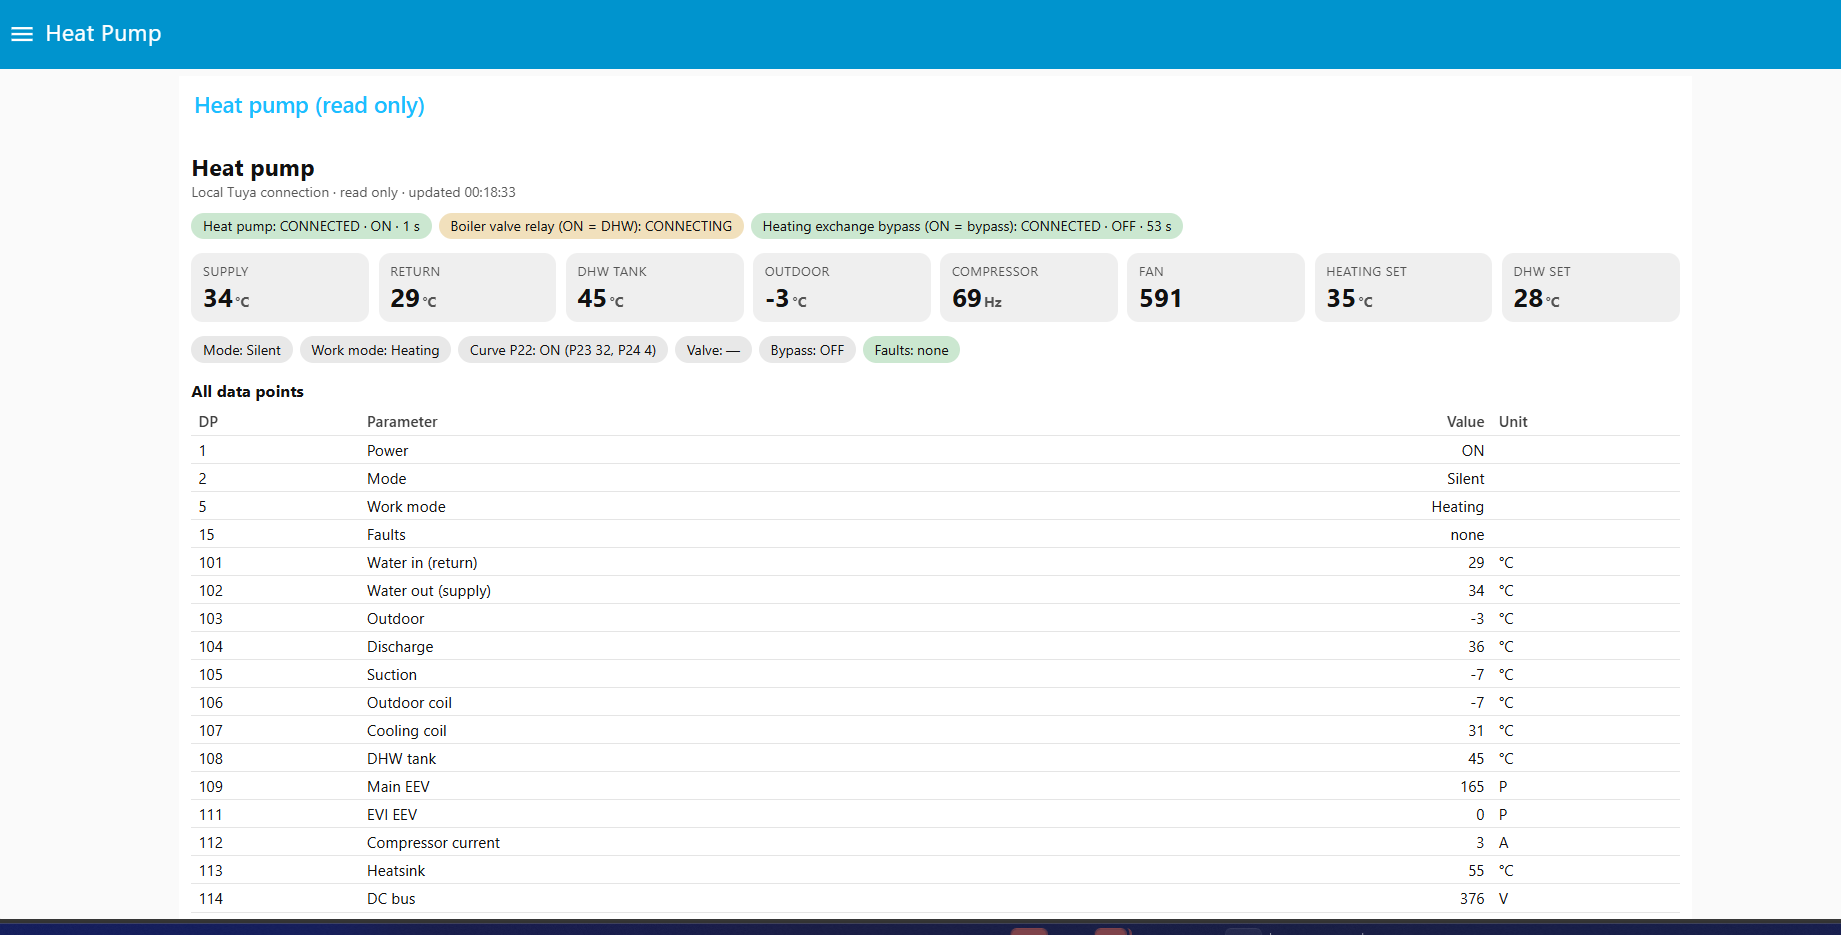
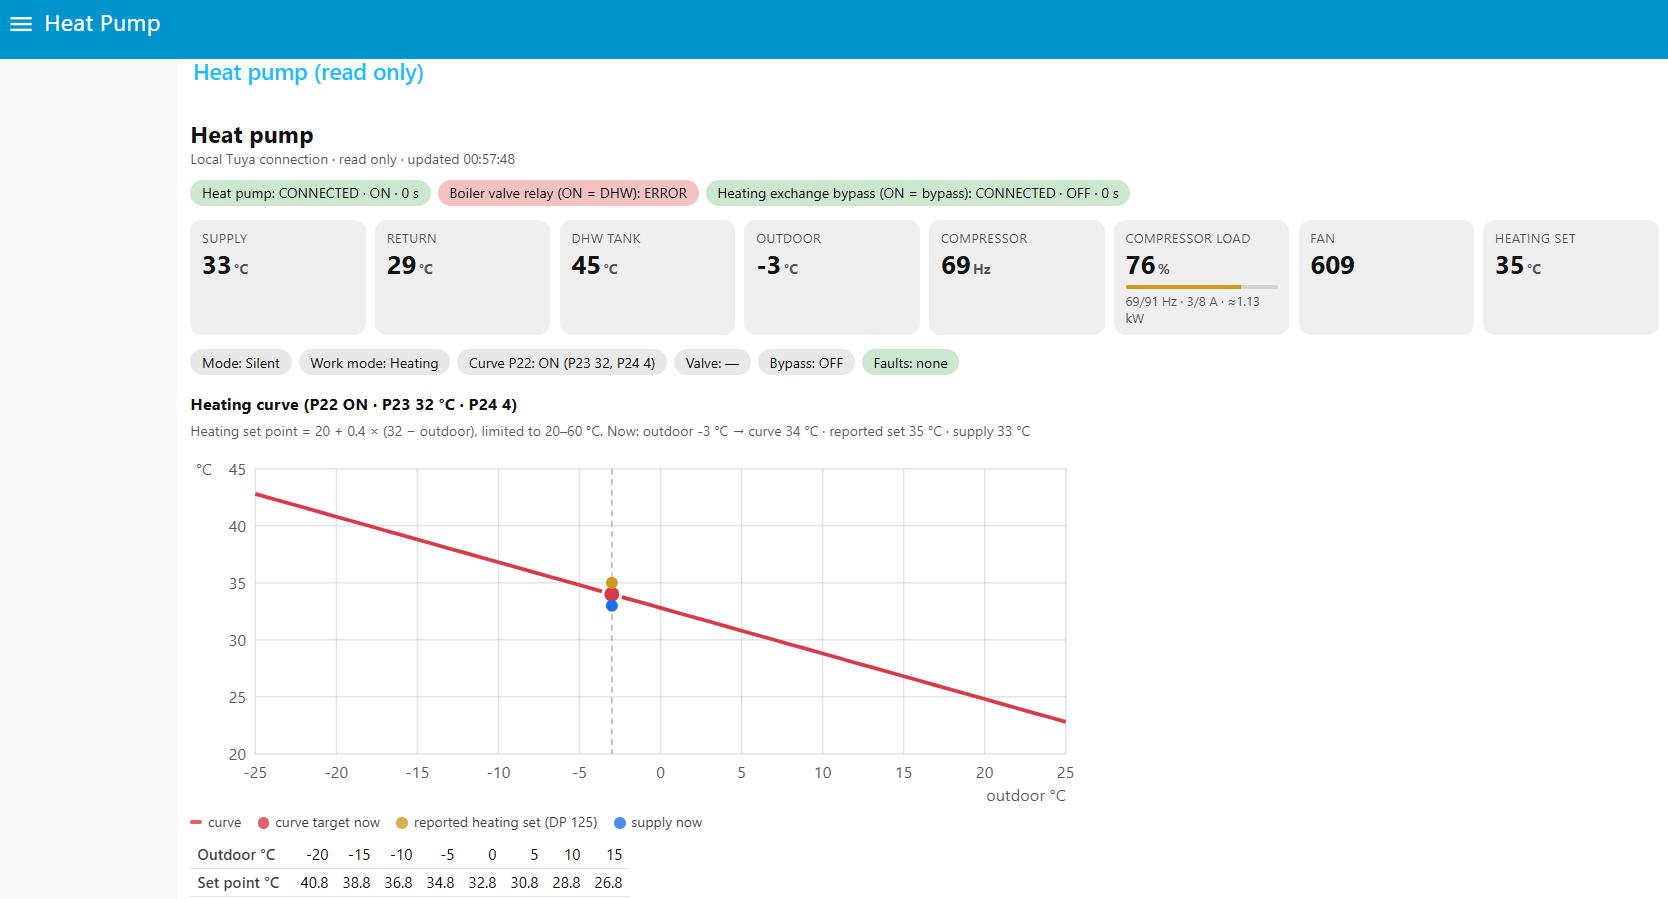
README: Heat Pump section with new screenshots, curve table, example reading
- new page screenshot (compressor load card, heating curve), new data-points screenshot
- page description top to bottom: connection chips, key values, compressor load, status chips, heating curve (formula, colours, set-point table), all data points
- example reading table (8 Nov 2026, -3 C outdoor)

diff --git a/README.md b/README.md
@@ -55,16 +55,43 @@ A Node-RED controller for a Victron ESS on a Cerbo GX (Venus OS) that keeps hour
 
 A dashboard tab for the Tuya-based air-to-water heat pump and its two Tuya relays: the boiler (DHW) valve and the heating-exchange bypass. Node-RED talks to the devices **locally over the LAN** with the Tuya local protocol ([`node-red-contrib-tuya-smart-device`](https://flows.nodered.org/node/node-red-contrib-tuya-smart-device)). There is no Tuya cloud at runtime and no Home Assistant. Stage 1 is **read only**: the flow only sends `GET`, never `SET`.
 
-![Heat Pump page — connection state, key temperatures, compressor, fan, set points and every Tuya data point](docs/images/heat-pump-page.png)
+![Heat Pump page — connection chips, key values with compressor load, status chips and the heating curve](docs/images/heat-pump-page.png)
 
-What the page shows:
+What the page shows, top to bottom:
 
-- **Connection state** of each device: heat pump, boiler valve relay (ON = DHW) and heating-exchange bypass (ON = bypass), with power state and data age.
-- **Key values:** supply, return, DHW tank and outdoor temperature; compressor frequency (Hz); compressor load; fan speed; heating set point. The DHW set point is only in the table and the log.
-- **Status chips:** mode (e.g. Silent), work mode (Heating / DHW / Cooling), heating curve P22 with P23 / P24, valve and bypass state, and decoded faults (`Er03` … `Er70`, or *none*). A defrost sign is shown when the fan is at 0 while the compressor runs above 30 Hz.
-- **All data points:** a table of every DP the heat pump reports, with name, value and unit. For example: power, mode, work mode, faults, water in / out, outdoor, discharge, suction, outdoor and cooling coil, DHW tank, main and EVI EEV steps, compressor current, heatsink and DC bus voltage. Unknown DPs are listed separately.
-- **Compressor load:** uses both frequency and current against the compressor's rated maxima of **91 Hz** and **8 A**. Load % is the higher of Hz / 91 (DP 115) and A / 8 (DP 112), i.e. the limit the compressor is closest to. The card shows a colour bar, `Hz/91 · A/8`, and an **estimated** electrical power ≈ compressor current (DP 112) × DC bus voltage (DP 114). There is no power DP, so the power is for trends only.
-- **Heating curve:** the controller's built-in weather curve (P22 on), drawn for outdoor −25…+25 °C. Heating set point = 20 + (P24 / 10) × (P23 − outdoor), limited to 20–60 °C. A dashed line marks the current outdoor temperature, with three points on it: the curve target, the reported heating set point (DP 125) and the actual supply. A table lists the set point for −20…+15 °C. With P23 = 32 and P24 = 4: −20 °C → 40.8 °C, −10 °C → 36.8 °C, 0 °C → 32.8 °C, 10 °C → 28.8 °C. The formula is close to what the pump reports (34 vs 35 °C at −3 °C) but not confirmed by the manual.
+- **Connection chips.** One per device: heat pump, boiler valve relay (ON = DHW) and heating-exchange bypass (ON = bypass), with power state and data age. Green = connected, yellow = connecting or stale, red = disconnected / error.
+- **Key values:** supply, return, DHW tank, outdoor, compressor frequency, **compressor load**, fan speed and heating set point. The DHW set point is only in the table and the log.
+- **Compressor load.** It uses both frequency and current against the compressor's rated maxima, **91 Hz** and **8 A**:
+  - load % is the higher of Hz / 91 (DP 115) and A / 8 (DP 112), i.e. the limit the compressor is closest to;
+  - the bar turns yellow from 60 % and red from 85 %;
+  - the line below shows `Hz/91 · A/8 · ≈kW`, where power ≈ compressor current (DP 112) × DC bus voltage (DP 114). There is no power DP, so the power is an estimate for trends only.
+
+  Example from the screenshot: 69/91 Hz and 3/8 A give **76 %** and ≈ 1.13 kW.
+- **Status chips:** mode (e.g. Silent), work mode (Heating / DHW / Cooling), curve P22 with P23 / P24, valve and bypass state, and decoded faults (`Er03` … `Er70`, or *none*). A defrost sign appears when the fan is at 0 while the compressor runs above 30 Hz.
+- **Heating curve.** This is the controller's built-in weather curve (P22 on), drawn for outdoor −25…+25 °C:
+
+  **heating set point = 20 + (P24 / 10) × (P23 − outdoor)**, limited to 20–60 °C.
+
+  A dashed line marks the current outdoor temperature. On it: the curve target (red), the set point the pump reports, DP 125 (yellow), and the actual supply (blue). Below the chart is a table for −20…+15 °C. With P23 = 32 and P24 = 4:
+
+  | Outdoor °C | −20 | −15 | −10 | −5 | 0 | 5 | 10 | 15 |
+  |---|---|---|---|---|---|---|---|---|
+  | Set point °C | 40.8 | 38.8 | 36.8 | 34.8 | 32.8 | 30.8 | 28.8 | 26.8 |
+
+  At −3 °C the curve gives 34 °C, while the pump reports 35 °C and supplies 33 °C. So the formula is close, but the manual does not confirm it.
+- **All data points:** every DP the heat pump reports, with name, value and unit. Unknown DPs are listed separately.
+
+![All data points — live values of every Tuya DP of the heat pump](docs/images/heat-pump-datapoints.png)
+
+Example reading (8 Nov 2026, 00:57; outdoor −3 °C; Heating, Silent):
+
+| Group | Values |
+|---|---|
+| Water | supply 33 °C, return 29 °C, DHW tank 45 °C |
+| Refrigerant | discharge 32 °C, suction −6 °C, outdoor coil −6 °C, cooling coil 29 °C, main EEV 190 P, EVI EEV 0 P |
+| Compressor / drive | 69 Hz, 3 A, DC bus 376 V, heatsink 55 °C, fan 1 608 rpm, fan 2 0 rpm |
+| Settings | heating set 35 °C, DHW set 28 °C, cooling set 20 °C, heating / DHW hysteresis 2 / 2 °C, water temp compensation 2 °C, curve P22 on, P23 32 °C, P24 4 |
+
 - **Temperatures (24 h):** a chart of supply, return, tank and outdoor, one point per minute.
 - **History on the GX:** every 30 s one line goes to `/data/home/nodered/grid-control-logs/heatpump-YYYY-MM-DD.log`, in the same style as the daily energy log (about 0.4 MB per day). No line is written while the heat pump data is older than 3 min:
 
